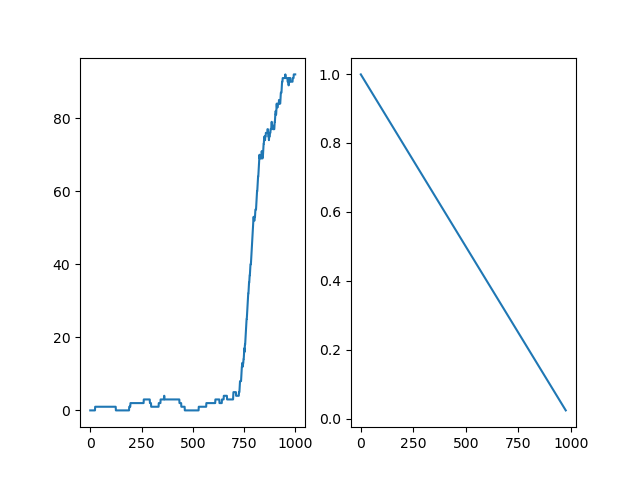
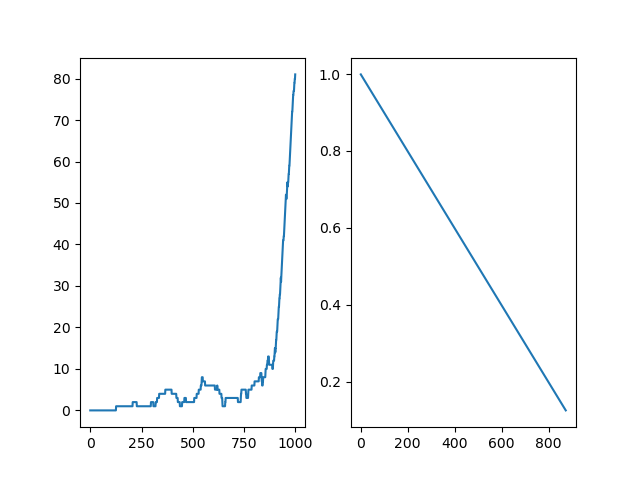
update

diff --git a/DQN/DQN_Cartpole2.py b/DQN/DQN_Cartpole2.py
@@ -11,15 +11,20 @@ os.environ["KMP_DUPLICATE_LIB_OK"] = "TRUE"
 
 # Define model
 class Net(nn.Module):
-    def __init__(self, in_states, h1_nodes, out_actions):
+    def __init__(self, in_states, h1_nodes,h2_nodes, out_actions):
         super().__init__()
 
         # Define network layers
         self.fc1 = nn.Linear(in_states, h1_nodes)   # first fully connected layer
-        self.out = nn.Linear(h1_nodes, out_actions) # ouptut layer w
+        self.fc1.weight.data.normal_(0,0.1)
+        self.fc2 = nn.Linear(h1_nodes,h2_nodes)
+        self.fc2.weight.data.normal_(0,0.1)
+        self.out = nn.Linear(h2_nodes, out_actions) # ouptut layer w
+        self.out.weight.data.normal_(0,0.1)
 
     def forward(self, x):
         x = F.relu(self.fc1(x)) # Apply rectified linear unit (ReLU) activation
+        x = F.relu(self.fc2(x))
         x = self.out(x)         # Calculate output
         return x
     
@@ -39,32 +44,37 @@ class ReplayMemory():
     
 # FrozeLake Deep Q-Learning
 class DQN():
-    # Hyperparameters (adjustable)
-    learning_rate_a = 0.001         # learning rate (alpha)
-    discount_factor_g = 0.9         # discount rate (gamma)    
-    network_sync_rate = 10          # number of steps the agent takes before syncing the policy and target network
-    replay_memory_size = 1000       # size of replay memory
-    mini_batch_size = 32            # size of the training data set sampled from the replay memory
+    def __init__(self):
+        super(DQN, self).__init__()
+        # Hyperparameters (adjustable)
+        self.learning_rate_a = 0.01         # learning rate (alpha)
+        self.discount_factor_g = 0.9         # discount rate (gamma)    
+        self.network_sync_rate = 100          # number of steps the agent takes before syncing the policy and target network
+        self.replay_memory_size = 2000       # size of replay memory
+        self.mini_batch_size = 32           # size of the training data set sampled from the replay memory
 
-    # Neural Network
-    loss_fn = nn.MSELoss()          # NN Loss function. MSE=Mean Squared Error can be swapped to something else.
-    optimizer = None                # NN Optimizer. Initialize later.
+        # Neural Network
+        self.loss_fn = nn.MSELoss()          # NN Loss function. MSE=Mean Squared Error can be swapped to something else.
+        self.optimizer = None                # NN Optimizer. Initialize later.
 
-    ACTIONS = ['L','D','R','U']     # for printing 0,1,2,3 => L(eft),D(own),R(ight),U(p)
+        self.ACTIONS = ['L','R']     # for printing 0,1 => L(eft),R(ight)
+
+
 
     # Train the FrozeLake environment
-    def train(self, episodes, render=False, is_slippery=False):
+    def train(self, episodes, render=False):
         # Create FrozenLake instance
-        env = gym.make('FrozenLake-v1', map_name="4x4", is_slippery=is_slippery, render_mode='human' if render else None)
-        num_states = env.observation_space.n
+        env = gym.make('CartPole-v1', render_mode='human' if render else None)
+        # env = env.unwrapped
+        num_states = env.observation_space.shape[0]
         num_actions = env.action_space.n
         
         epsilon = 1 # 1 = 100% random actions
         memory = ReplayMemory(self.replay_memory_size)
 
         # Create policy and target network. Number of nodes in the hidden layer can be adjusted.
-        policy_dqn = Net(in_states=num_states, h1_nodes=num_states, out_actions=num_actions)
-        target_dqn = Net(in_states=num_states, h1_nodes=num_states, out_actions=num_actions)
+        policy_dqn = Net(in_states=num_states, h1_nodes=50,h2_nodes=30, out_actions=num_actions)
+        target_dqn = Net(in_states=num_states, h1_nodes=50,h2_nodes=30, out_actions=num_actions)
 
         # Make the target and policy networks the same (copy weights/biases from one network to the other)
         target_dqn.load_state_dict(policy_dqn.state_dict())
@@ -95,7 +105,7 @@ class DQN():
                 # Select action based on epsilon-greedy
                 if random.random() < epsilon:
                     # select random action
-                    action = env.action_space.sample() # actions: 0=left,1=down,2=right,3=up
+                    action = env.action_space.sample() # actions: 0=left,1=right
                 else:
                     # select best action            
                     with torch.no_grad():
@@ -123,7 +133,8 @@ class DQN():
                 self.optimize(mini_batch, policy_dqn, target_dqn)        
 
                 # Decay epsilon
-                epsilon = max(epsilon - 1/episodes, 0)
+                # epsilon = max(epsilon - 1/episodes, 0)
+                epsilon = epsilon
                 epsilon_history.append(epsilon)
 
                 # Copy policy network to target network after a certain number of steps
@@ -135,7 +146,7 @@ class DQN():
         env.close()
 
         # Save policy
-        torch.save(policy_dqn.state_dict(), "DQN\\frozen_lake_ddql.pt")
+        torch.save(policy_dqn.state_dict(), "DQN\\cartpole_dql2.pt")
 
         # Create new graph 
         plt.figure(1)
@@ -152,7 +163,7 @@ class DQN():
         plt.plot(epsilon_history)
         
         # Save plots
-        plt.savefig("DQN\\frozen_lake_ddql.png")
+        plt.savefig("DQN\\cartpole_dql2.png")
 
     # Optimize policy network
     def optimize(self, mini_batch, policy_dqn, target_dqn):
@@ -172,9 +183,8 @@ class DQN():
             else:
                 # Calculate target q value 
                 with torch.no_grad():
-                    best_action = policy_dqn(self.state_to_dqn_input(new_state, num_states)).argmax()
                     target = torch.FloatTensor(
-                        reward + self.discount_factor_g * target_dqn(self.state_to_dqn_input(new_state, num_states))[best_action]
+                        reward + self.discount_factor_g * target_dqn(self.state_to_dqn_input(new_state, num_states)).max()
                     )
 
             # Get the current set of Q values
@@ -195,28 +205,24 @@ class DQN():
         loss.backward()
         self.optimizer.step()
 
-    '''
-    Converts an state (int) to a tensor representation.
-    For example, the FrozenLake 4x4 map has 4x4=16 states numbered from 0 to 15. 
 
-    Parameters: state=1, num_states=16
-    Return: tensor([0., 1., 0., 0., 0., 0., 0., 0., 0., 0., 0., 0., 0., 0., 0., 0.])
-    '''
     def state_to_dqn_input(self, state:int, num_states:int)->torch.Tensor:
         input_tensor = torch.zeros(num_states)
         input_tensor[state] = 1
         return input_tensor
+    
+      
 
     # Run the FrozeLake environment with the learned policy
-    def test(self, episodes, is_slippery=False):
+    def test(self, episodes,render=True, is_slippery=False):
         # Create FrozenLake instance
-        env = gym.make('FrozenLake-v1', map_name="4x4", is_slippery=is_slippery, render_mode='human')
-        num_states = env.observation_space.n
+        env = gym.make('CartPole-v1', render_mode='human' if render else None)
+        num_states = env.observation_space.shape[0]
         num_actions = env.action_space.n
 
         # Load learned policy
-        policy_dqn = Net(in_states=num_states, h1_nodes=num_states, out_actions=num_actions) 
-        policy_dqn.load_state_dict(torch.load("DQN\\frozen_lake_ddql.pt"))
+        policy_dqn = Net(in_states=num_states, h1_nodes=50,h2_nodes=30, out_actions=num_actions)
+        policy_dqn.load_state_dict(torch.load("DQN\\cartpole_dql2.pt"))
         policy_dqn.eval()    # switch model to evaluation mode
 
         print('Policy (trained):')
@@ -234,7 +240,14 @@ class DQN():
                     action = policy_dqn(self.state_to_dqn_input(state, num_states)).argmax().item()
 
                 # Execute action
-                state,reward,terminated,truncated,_ = env.step(action)
+                state,_,terminated,truncated,_ = env.step(action)
+        # state = env.reset()[0]
+        # for _ in range(200):
+        #     env.render()  
+        #     with torch.no_grad():
+        #         action = policy_dqn(self.state_to_dqn_input(state, num_states)).argmax().item()
+        #     state, reward, done, _, _ = env.step(action)
+
 
         env.close()
 
@@ -262,7 +275,25 @@ class DQN():
 
 
 if __name__ == '__main__':
-    frozen_lake = DQN()
-    is_slippery = False
-    # frozen_lake.train(1000, is_slippery=is_slippery)
-    frozen_lake.test(2, is_slippery=is_slippery)
+    cartpole = DQN()
+    cartpole.train(1000)
+    # cartpole.test(1)
+    # env = gym.make('CartPole-v1', render_mode='human')
+    # num_states = env.observation_space.shape[0]
+    # num_actions = env.action_space.n
+
+    # # Load learned policy
+    # policy_dqn = Net(in_states=num_states, h1_nodes=50,h2_nodes=30, out_actions=num_actions)
+    # policy_dqn.load_state_dict(torch.load("DQN\\cartpole_dql2.pt"))
+    # policy_dqn.eval()    # switch model to evaluation mode
+
+    # state = env.reset()[0]
+    # for _ in range(200):
+    #     env.render()  
+    #     with torch.no_grad():
+    #         action = policy_dqn(cartpole.state_to_dqn_input(state, num_states)).argmax().item()
+    #     state, reward, done, _, _ = env.step(action)
+    #     if done:
+    #         # state, _ = env.reset()
+    #         print("end!")
+    #         break

diff --git a/DQN/DQN_Cartpole.py b/DQN/DQN_Cartpole.py
@@ -51,7 +51,7 @@ class DQN():
         self.discount_factor_g = 0.9         # discount rate (gamma)    
         self.network_sync_rate = 100          # number of steps the agent takes before syncing the policy and target network
         self.replay_memory_size = 2000       # size of replay memory
-        self.mini_batch_size = 128           # size of the training data set sampled from the replay memory
+        self.mini_batch_size = 32           # size of the training data set sampled from the replay memory
 
         # Neural Network
         self.loss_fn = nn.MSELoss()          # NN Loss function. MSE=Mean Squared Error can be swapped to something else.
@@ -65,7 +65,7 @@ class DQN():
     def train(self, episodes, render=False):
         # Create FrozenLake instance
         env = gym.make('CartPole-v1', render_mode='human' if render else None)
-        env = env.unwrapped
+        # env = env.unwrapped
         num_states = env.observation_space.shape[0]
         num_actions = env.action_space.n
         
@@ -133,7 +133,8 @@ class DQN():
                 self.optimize(mini_batch, policy_dqn, target_dqn)        
 
                 # Decay epsilon
-                epsilon = max(epsilon - 1/episodes, 0)
+                # epsilon = max(epsilon - 1/episodes, 0)
+                epsilon = epsilon
                 epsilon_history.append(epsilon)
 
                 # Copy policy network to target network after a certain number of steps
@@ -145,7 +146,7 @@ class DQN():
         env.close()
 
         # Save policy
-        torch.save(policy_dqn.state_dict(), "cartpole_dql.pt")
+        torch.save(policy_dqn.state_dict(), "DQN\\cartpole_dql.pt")
 
         # Create new graph 
         plt.figure(1)
@@ -162,7 +163,7 @@ class DQN():
         plt.plot(epsilon_history)
         
         # Save plots
-        plt.savefig('carpole_dql.png')
+        plt.savefig("DQN\\carpole_dql.png")
 
     # Optimize policy network
     def optimize(self, mini_batch, policy_dqn, target_dqn):
@@ -219,7 +220,7 @@ class DQN():
 
         # Load learned policy
         policy_dqn = Net(in_states=num_states, h1_nodes=50,h2_nodes=30, out_actions=num_actions)
-        policy_dqn.load_state_dict(torch.load("cartpole_dql.pt"))
+        policy_dqn.load_state_dict(torch.load("DQN\\cartpole_dql.pt"))
         policy_dqn.eval()    # switch model to evaluation mode
 
         print('Policy (trained):')
@@ -281,7 +282,7 @@ if __name__ == '__main__':
 
     # Load learned policy
     policy_dqn = Net(in_states=num_states, h1_nodes=50,h2_nodes=30, out_actions=num_actions)
-    policy_dqn.load_state_dict(torch.load("cartpole_dql.pt"))
+    policy_dqn.load_state_dict(torch.load("DQN\\cartpole_dql.pt"))
     policy_dqn.eval()    # switch model to evaluation mode
 
     state = env.reset()[0]

diff --git a/DQN/DQN.py b/DQN/DQN.py
@@ -191,5 +191,3 @@ if __name__ == '__main__':
 
  
     env.close()
-
- 
